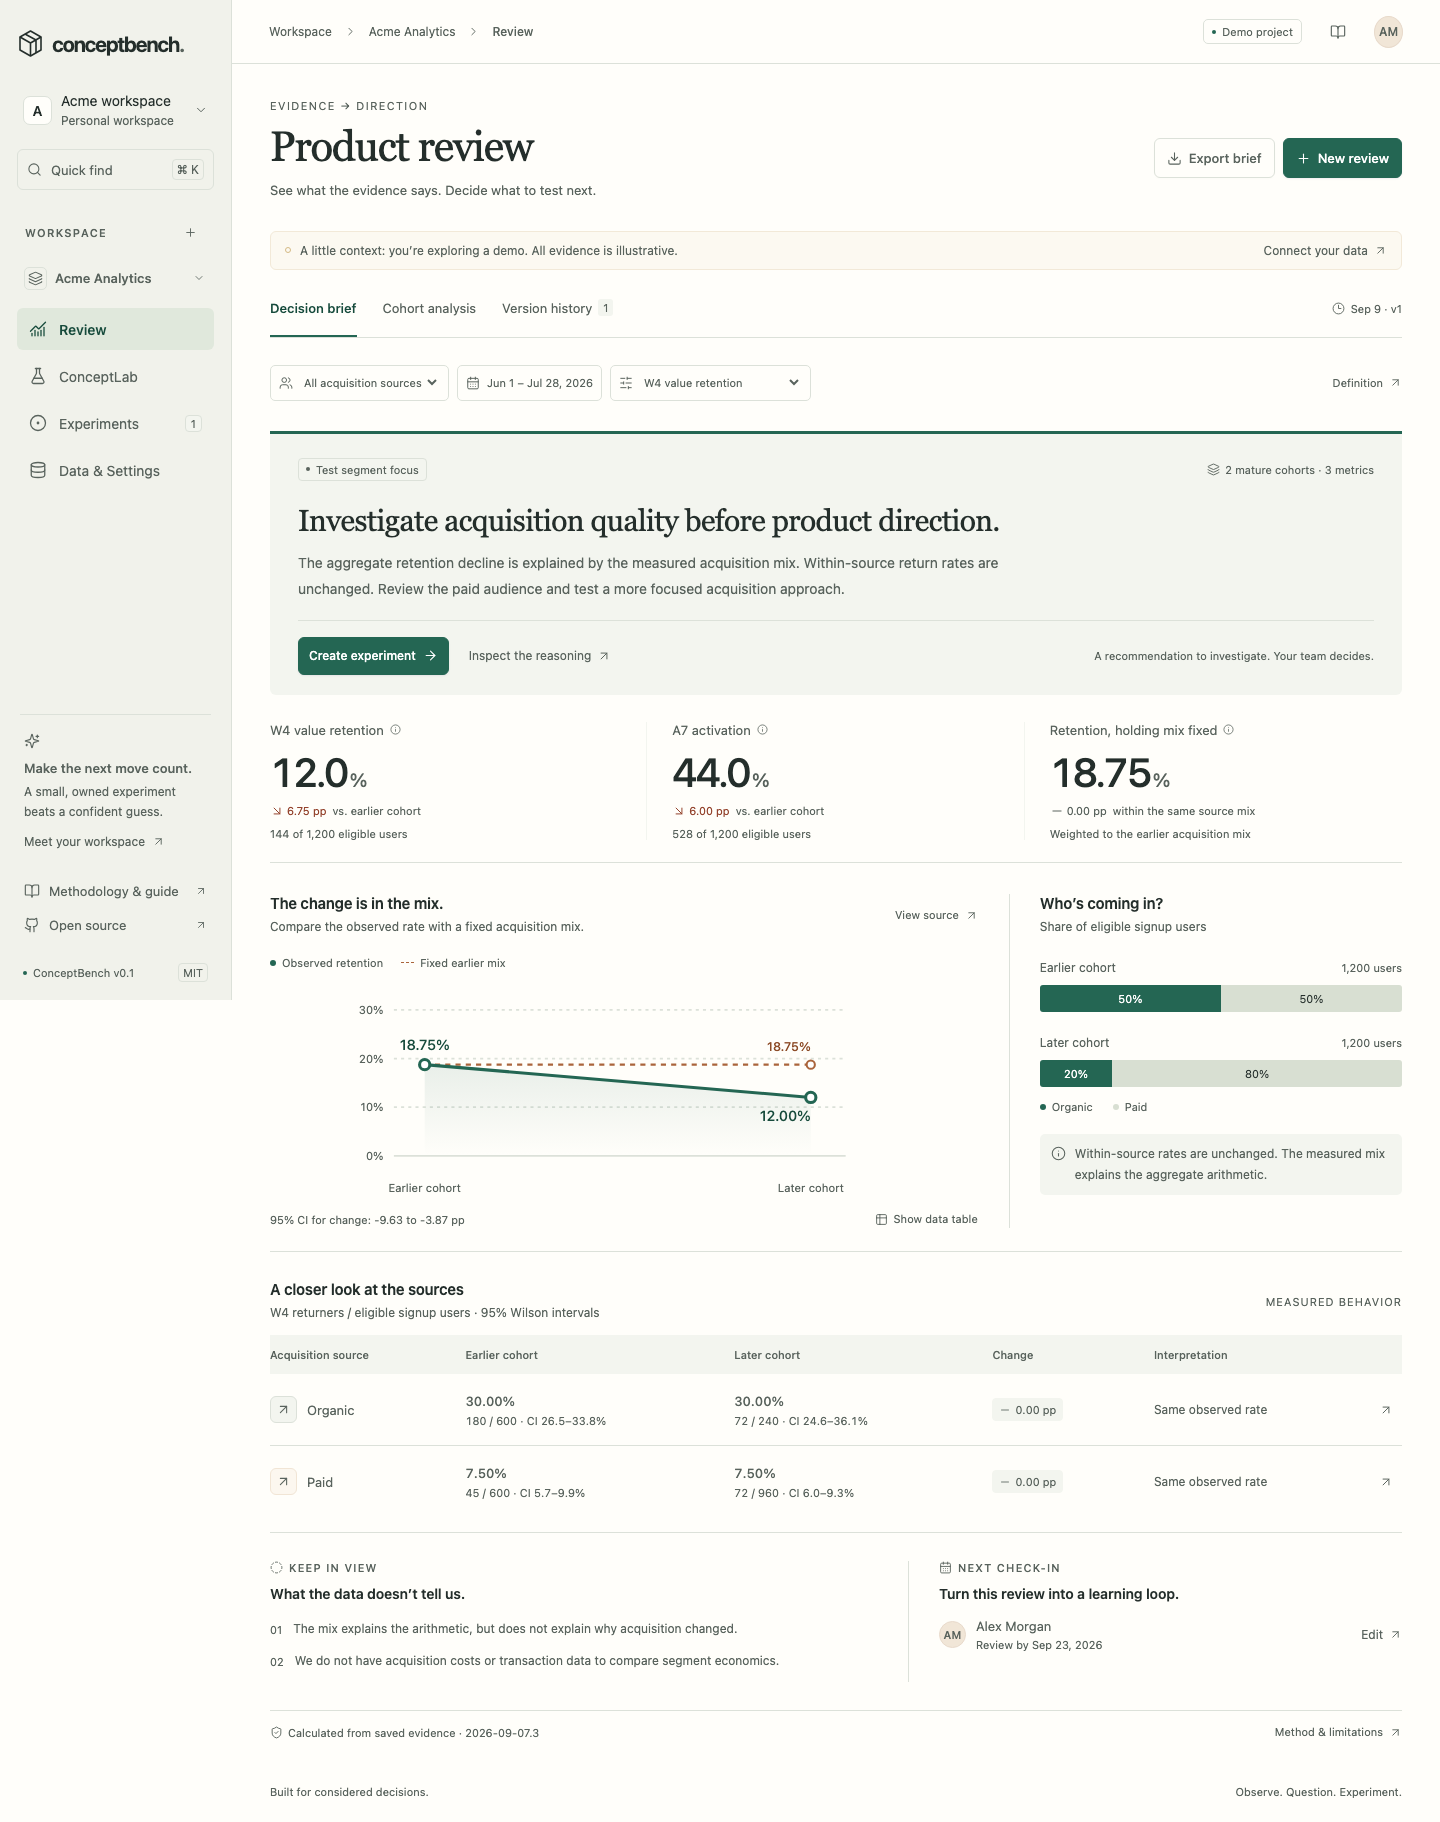
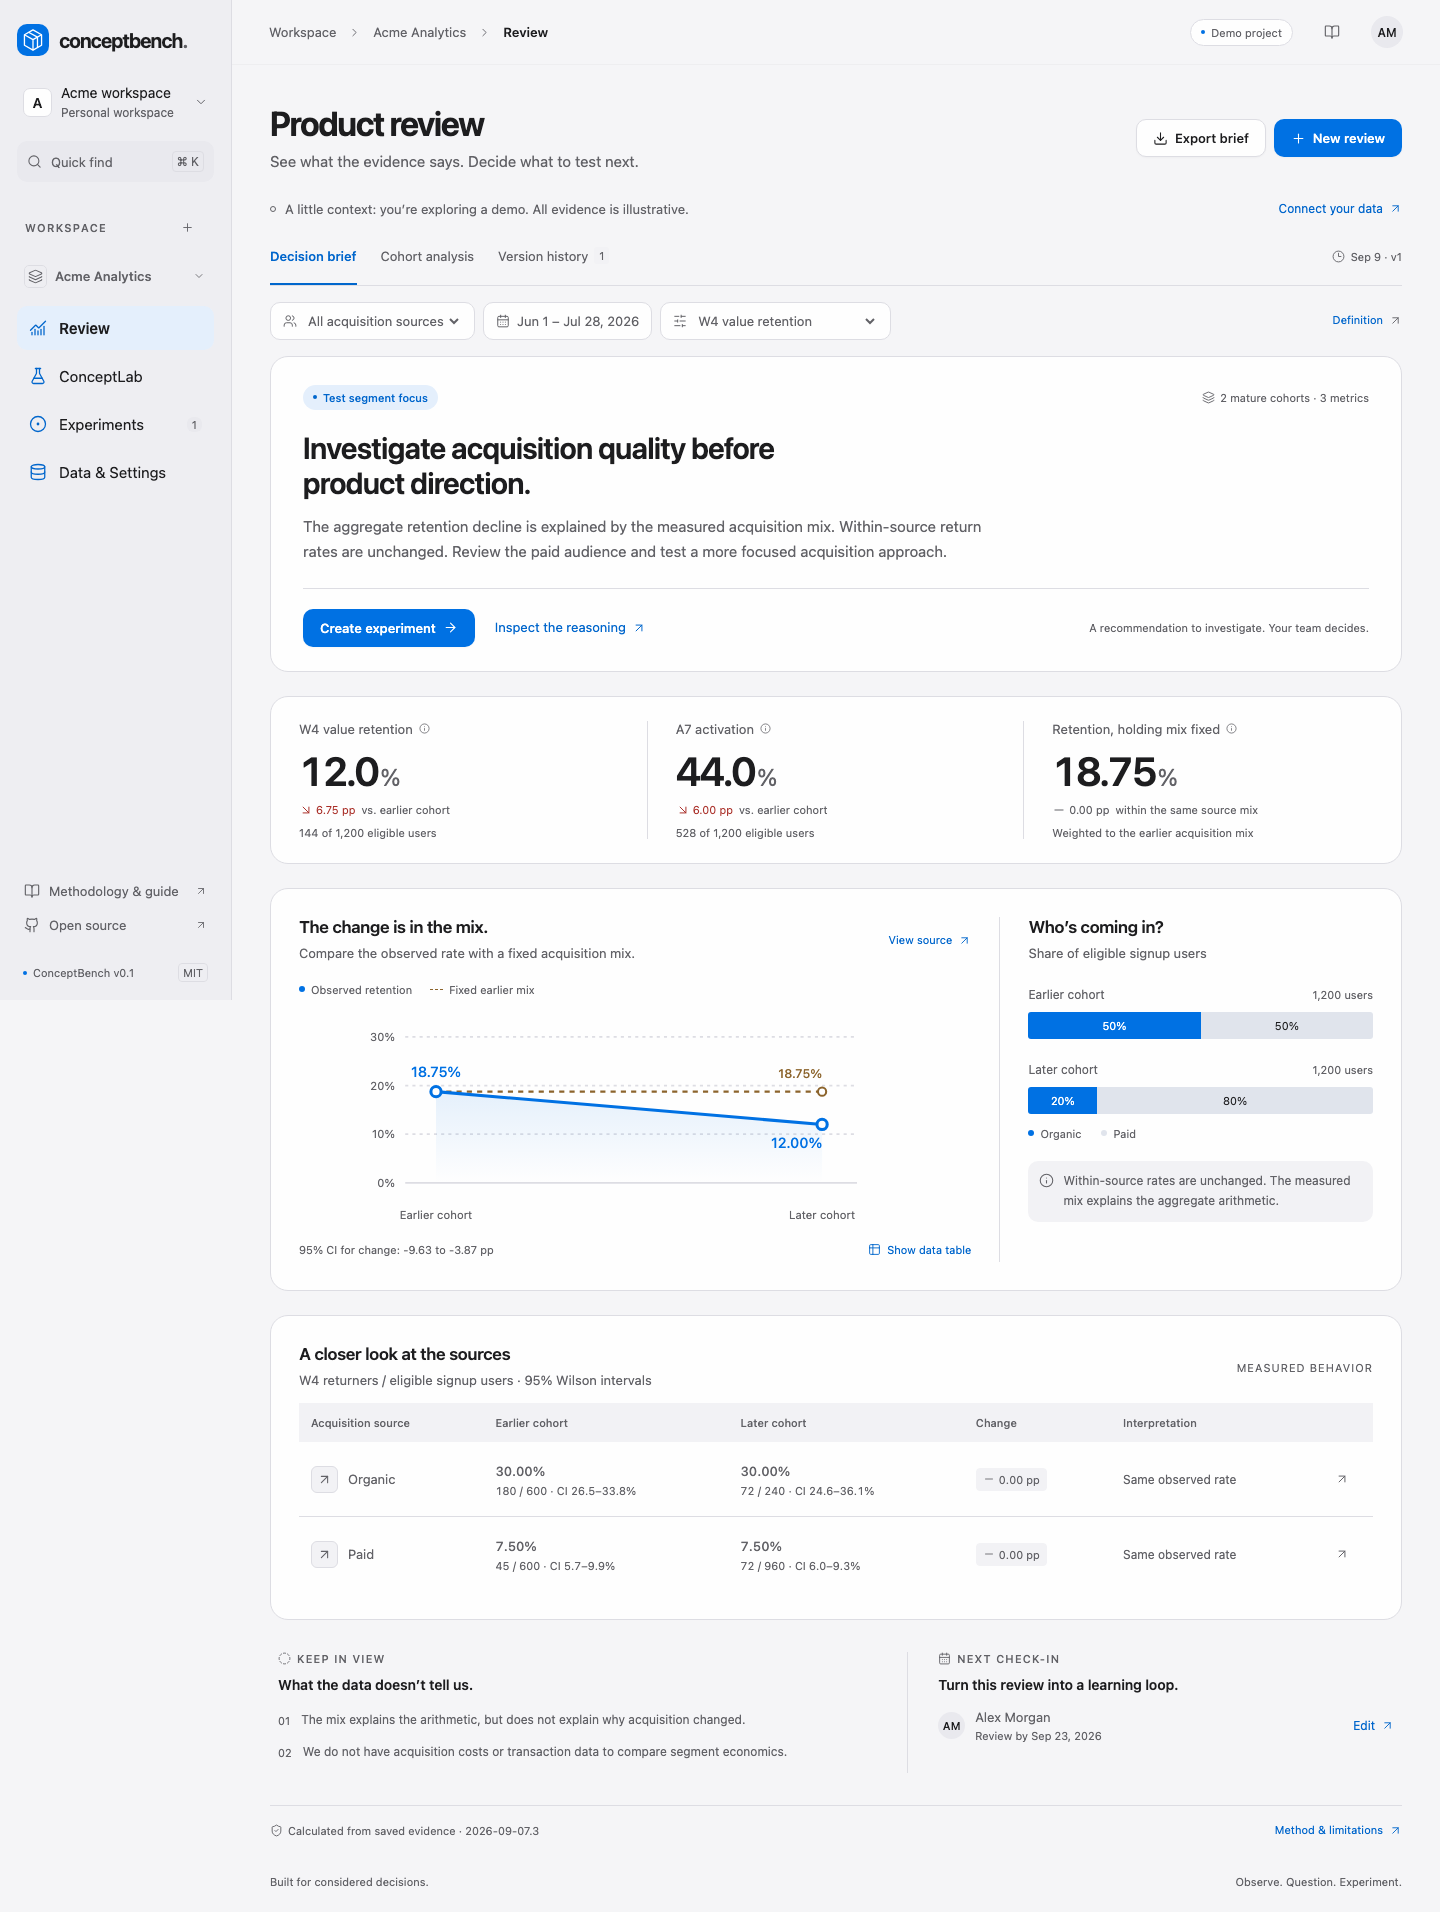
design: verify adaptive layouts and restore dialog focus

diff --git a/frontend/src/styles.css b/frontend/src/styles.css
@@ -370,7 +370,7 @@ td:last-child {
   color: var(--muted);
 }
 .sidebar-bottom-link:hover {
-  color: var(--accent);
+  color: var(--accent-dark);
 }
 .sidebar-version {
   display: flex;
@@ -477,7 +477,7 @@ td:last-child {
 }
 .icon-button:hover {
   background: var(--subtle);
-  color: var(--accent);
+  color: var(--accent-dark);
 }
 .button {
   min-height: var(--space-40);
@@ -501,7 +501,7 @@ td:last-child {
 }
 .button.primary {
   background: var(--accent);
-  border-color: var(--accent);
+  border-color: var(--accent-dark);
   color: var(--on-accent);
   box-shadow: var(--shadow-control);
 }
@@ -633,7 +633,7 @@ main {
   gap: var(--space-6);
 }
 .report-tabs > button.active {
-  border-color: var(--accent);
+  border-color: var(--accent-dark);
   color: var(--muted);
   font-weight: 550;
 }
@@ -815,7 +815,7 @@ main {
   border-right: 0;
 }
 .metric:hover .metric-label {
-  color: var(--accent);
+  color: var(--accent-dark);
 }
 .metric-label {
   color: var(--muted);
@@ -2290,7 +2290,7 @@ dialog .table-scroll td small {
 .field > input:focus,
 .field > textarea:focus,
 .field > select:focus {
-  border-color: var(--accent);
+  border-color: var(--accent-dark);
   box-shadow: var(--shadow-control);
   outline: none;
 }
@@ -2333,7 +2333,7 @@ dialog .table-scroll td small {
 }
 .checkbox input {
   margin-top: var(--space-4);
-  accent-color: var(--accent);
+  accent-color: var(--accent-dark);
   width: var(--space-14);
   height: var(--space-14);
   flex-shrink: 0;
@@ -2790,7 +2790,7 @@ strong {
 }
 .report-tabs > button.active {
   color: var(--accent-dark);
-  border-color: var(--accent);
+  border-color: var(--accent-dark);
 }
 .study-nav button.active {
   background: var(--selection);
@@ -2851,7 +2851,7 @@ strong {
 .concept-letter {
   background: var(--accent);
   color: var(--on-accent);
-  border-color: var(--accent);
+  border-color: var(--accent-dark);
 }
 .concept-score strong {
   font-variant-numeric: tabular-nums;
@@ -2864,7 +2864,7 @@ strong {
   min-height: var(--space-32);
 }
 .button:hover:not(:disabled) {
-  border-color: var(--accent);
+  border-color: var(--accent-dark);
 }
 .quiet:hover,
 .text-button:hover {
@@ -4496,4 +4496,32 @@ dialog.drawer {
   .sidebar {
     transition: none;
   }
+}
+
+.source-card {
+  min-width: 0;
+}
+.source-card-top,
+.source-buttons,
+.source-capabilities {
+  flex-wrap: wrap;
+}
+.concept-card {
+  min-width: 0;
+}
+.concept-score {
+  flex-wrap: wrap;
+}
+.page-heading,
+.list-toolbar,
+.study-toolbar,
+.lab-intro {
+  flex-wrap: wrap;
+}
+.segmented {
+  max-width: 100%;
+  overflow-x: auto;
+}
+.segmented button {
+  flex-shrink: 0;
 }

diff --git a/frontend/e2e/journeys.spec.ts b/frontend/e2e/journeys.spec.ts
@@ -20,6 +20,7 @@ test('demo review, inspect evidence, revise, and export the actual brief', async
   await expect(page.getByRole('dialog')).toContainText('first_report_completed')
   await page.keyboard.press('Escape')
   await expect(page.getByRole('dialog')).not.toBeVisible()
+  await expect(page.getByRole('button', { name: 'View source', exact: true })).toBeFocused()
   await page.getByRole('button', { name: 'Show data table' }).click()
   await expect(page.getByRole('table')).toHaveCount(2)
   await page.getByRole('button', { name: 'Edit', exact: true }).click()
@@ -291,4 +292,40 @@ test('slow session startup announces loading and resolves into the workspace', a
   }
   await expect(page.getByRole('heading', { name: 'Product review' })).toBeVisible()
   await expect(page.getByRole('status', { name: 'Preparing your workspace' })).toHaveCount(0)
+})
+
+test('dark appearance preserves contrast across the workspace', async ({ page }) => {
+  await page.emulateMedia({ colorScheme: 'dark' })
+  await openDemo(page)
+  for (const name of [/^Review$/, /^ConceptLab$/, /^Experiments/, /^Data & Settings$/]) {
+    await page.getByRole('navigation').getByRole('button', { name }).click()
+    const result = await new AxeBuilder({ page })
+      .withTags(['wcag2a', 'wcag2aa', 'wcag21aa'])
+      .analyze()
+    expect(
+      result.violations.map((v) => ({ id: v.id, targets: v.nodes.map((n) => n.target) })),
+    ).toEqual([])
+  }
+})
+
+test('enlarged text reflows controls on phone and tablet', async ({ page }) => {
+  await openDemo(page)
+  await page.evaluate(() => {
+    document.documentElement.style.fontSize = '125%'
+  })
+  for (const width of [320, 768, 1024]) {
+    await page.setViewportSize({ width, height: 1000 })
+    for (const [route, heading] of [
+      ['review', 'Product review'],
+      ['lab', 'ConceptLab'],
+      ['experiments', 'Experiments'],
+      ['data', 'Data & Settings'],
+    ]) {
+      await page.evaluate((route) => {
+        location.hash = route
+      }, route)
+      await expect(page.locator('.page-heading h1')).toHaveText(heading)
+      await expect.poll(() => page.evaluate(() => document.documentElement.scrollWidth)).toBe(width)
+    }
+  }
 })

diff --git a/frontend/src/ui.tsx b/frontend/src/ui.tsx
@@ -1,4 +1,4 @@
-import { useEffect, useId, useRef } from 'react'
+import { useLayoutEffect, useId, useRef } from 'react'
 import type { ReactNode, FormEvent } from 'react'
 import { X, ArrowUpRight, CircleHelp, LoaderCircle } from 'lucide-react'
 
@@ -17,7 +17,8 @@ export function Dialog({
 }) {
   const ref = useRef<HTMLDialogElement>(null)
   const id = useId()
-  useEffect(() => {
+  // Close before DOM removal so the browser restores focus to the opening control.
+  useLayoutEffect(() => {
     const dialog = ref.current
     dialog?.showModal()
     return () => dialog?.close()

diff --git a/docs/BUILD.md b/docs/BUILD.md
@@ -15,6 +15,14 @@ ConceptBench implements the self-hosted software pilot from the supplied technic
 
 Experiment specifications freeze when a test starts. An outcome can be recorded only once. Later reviews explicitly select that outcome as evidence. Changes to a running test require a new experiment, keeping the original stopping rule and hypothesis inspectable.
 
+## Apple-inspired refinement — 9 September 2026
+
+The workspace uses one CSS token theme with platform system fonts, relative dimensions, neutral grouped surfaces, blue actions, and system-selected light/dark appearance. Navigation uses restrained translucent material; reduced transparency and increased contrast switch it to solid surfaces. Reduced motion removes travel and button scaling. No animation or UI dependency was added. The native dialog closes before React removes it, restoring keyboard focus to its opening control.
+
+Verification includes ten Chromium journeys, automated WCAG A/AA scans on all four pages in both appearances, and responsive checks at 320, 390, 768, 1024, 1440 and 1920 pixels at standard and 125% text size. The skill's rendered state checker passed 602 default/hover/focus checks across the four page snapshots in light and dark. Twenty-one semantic text pairs per theme were measured with the supplied contrast utility: minimum 4.66:1 in light and 5.45:1 in dark. Hardcode and theme-reference checks passed for the shared styles/theme and dialog primitive. The aesthetic audit reported no high finding; its medium equal-sized metric-row finding is intentional for comparing data, and was reviewed visually.
+
+The bundled skill-kit `accuracy_report.mjs` reported 9/37 on its own reference examples: browser dependencies are absent in that kit, and its token-build output directory is read-only. This is not an application score. Its state and taste scripts were run separately against actual ConceptBench DOM snapshots using the application's already-installed Playwright runtime. Automated checks do not replace testing with people or assistive technology. Screenshots continue to show explicitly fabricated demo evidence; analytical rules and validation limits are unchanged.
+
 ## Interface verification — 9 September 2026
 
 The redesigned interface passes all eight Chromium journeys against the compiled Docker application, including automated accessibility checks on all four main pages. Loading announcements and Quick Find's empty and case-insensitive results are covered. All four pages were checked at 320, 390, 768, 1024, 1440 and 1920 pixels without viewport overflow; concept chart baselines were checked at tablet width. Production compilation and formatting pass. README screenshots were refreshed from isolated fabricated demo sessions. This interface update adds no dependencies and does not change the analytical rules or pilot validation limits.
